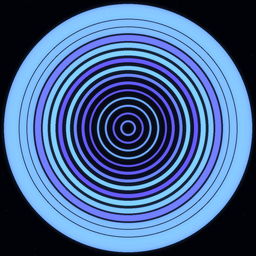
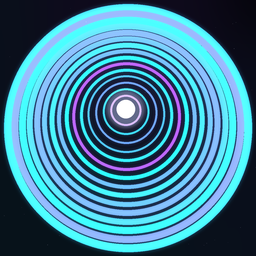
Add depth: nebula background, tunnel drift, glowing core
- Procedural nebula: blurred color clouds drawn from each image's own
  gradient, kept faint so the background stays cohesive with the rings
- Drift ring centers along a random direction (more for inner rings) so the
  nested circles form a 3D tunnel / wormhole
- Add a bright glowing core at the tunnel's vanishing point
- Import math properly for the drift trigonometry

Claude-Session: https://claude.ai/code/session_014cYWmmT7UYnz57rXY1sy98

diff --git a/main.py b/main.py
@@ -7,6 +7,7 @@
 
 import argparse
 import colorsys
+import math
 import os
 import random
 
@@ -28,16 +29,34 @@ def random_color():
     return tuple(rgb)
 
 
-def make_background(canvas_px: int):
-    """A dark navy canvas with a faint scattering of stars."""
-    bg = Image.new("RGB", (canvas_px, canvas_px), (3, 5, 16))
-    draw = ImageDraw.Draw(bg)
+def make_background(canvas_px: int, tints):
+    """Dark navy canvas with a soft color nebula and a scattering of stars.
 
-    star_count = canvas_px // 12
+    The nebula is painted as a handful of big, overlapping blobs in colors
+    drawn from this image's own gradient, then blurred into soft clouds so the
+    background stays cohesive with the rings on top of it.
+    """
+    bg = Image.new("RGB", (canvas_px, canvas_px), (3, 5, 16))
+
+    # --- nebula: blurred color clouds ---
+    nebula = Image.new("RGB", (canvas_px, canvas_px), (0, 0, 0))
+    nebula_draw = ImageDraw.Draw(nebula)
+    for _ in range(12):
+        tint = interpolate(tints[0], tints[1], random.random())
+        cx = random.randint(0, canvas_px)
+        cy = random.randint(0, canvas_px)
+        r = random.randint(canvas_px // 5, canvas_px // 2)
+        nebula_draw.ellipse((cx - r, cy - r, cx + r, cy + r), fill=tint)
+    nebula = nebula.filter(ImageFilter.GaussianBlur(radius=canvas_px // 8))
+    bg = ImageChops.add(bg, nebula, scale=4)  # scale>1 keeps the cloud faint
+
+    # --- stars ---
+    draw = ImageDraw.Draw(bg)
+    star_count = canvas_px // 10
     for _ in range(star_count):
         x = random.randint(0, canvas_px - 1)
         y = random.randint(0, canvas_px - 1)
-        b = random.randint(40, 160)
+        b = random.randint(40, 180)
         size = random.choice((1, 1, 2))
         draw.ellipse((x, y, x + size, y + size), fill=(b, b, min(255, b + 30)))
     return bg
@@ -63,30 +82,48 @@ def generator(save_path: str, target_size: int = 256, rings: int = 16):
     start_color = random_color()
     end_color = random_color()
 
-    # A starry night-sky background, plus a separate black layer we draw the
-    # rings onto (kept black so the glow blur stays clean before compositing).
-    image = make_background(canvas_px)
+    # Starry nebula background, plus separate black layers for the crisp rings
+    # and their glow (kept black so the blur stays clean before compositing).
+    image = make_background(canvas_px, (start_color, end_color))
     rings_layer = Image.new("RGB", (canvas_px, canvas_px), (0, 0, 0))
     rings_draw = ImageDraw.Draw(rings_layer)
     glow = Image.new("RGB", (canvas_px, canvas_px), (0, 0, 0))
     glow_draw = ImageDraw.Draw(glow)
 
+    # Drift the ring centers along one random direction, more for the inner
+    # rings, so the nested circles lean into a 3D tunnel / wormhole.
+    angle = random.uniform(0, 2 * math.pi)
+    drift = canvas_px * random.uniform(0.04, 0.11)
+    dx, dy = drift * math.cos(angle), drift * math.sin(angle)
+    center = canvas_px / 2
+
     # Evenly divide the canvas into `rings` nested ellipses.
     step = (canvas_px - 2 * padding) // (2 * rings)
 
+    cx = cy = center
     for i in range(rings):
-        # Position the ring and give the inner rings slightly thicker strokes
-        # so the piece has a bit more depth toward the center.
-        inset = padding + i * step
-        box = (inset, inset, canvas_px - inset, canvas_px - inset)
-        width = max(2, (rings - i) // 2) * scale_factor
+        # Inner rings sit smaller and are nudged along the drift direction.
+        radius = center - (padding + i * step)
+        t = i / max(1, rings - 1)
+        cx = center + dx * t
+        cy = center + dy * t
+        box = (cx - radius, cy - radius, cx + radius, cy + radius)
 
+        # Slightly thicker strokes toward the center for depth.
+        width = max(2, (rings - i) // 2) * scale_factor
         circle_color = interpolate(start_color, end_color, random.random())
 
         rings_draw.ellipse(box, outline=circle_color, width=width)
         glow_draw.ellipse(box, outline=circle_color, width=width)
 
-    # Composite: stars -> soft halo (subtle) -> crisp rings on top.
+    # A bright core glowing at the tunnel's vanishing point.
+    core_r = step * 1.2
+    core = interpolate(interpolate(start_color, end_color, 0.5), (255, 255, 255), 0.6)
+    rings_draw.ellipse((cx - core_r, cy - core_r, cx + core_r, cy + core_r), fill=core)
+    glow_draw.ellipse((cx - core_r * 2, cy - core_r * 2,
+                       cx + core_r * 2, cy + core_r * 2), fill=core)
+
+    # Composite: nebula+stars -> soft halo (subtle) -> crisp rings on top.
     glow = glow.filter(ImageFilter.GaussianBlur(radius=scale_factor * 2))
     image = ImageChops.add(image, glow, scale=2.2)  # scale>1 dims the glow
     image = ImageChops.add(image, rings_layer)
